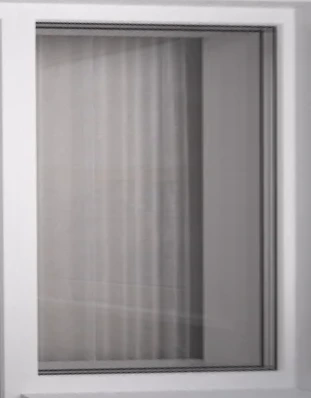
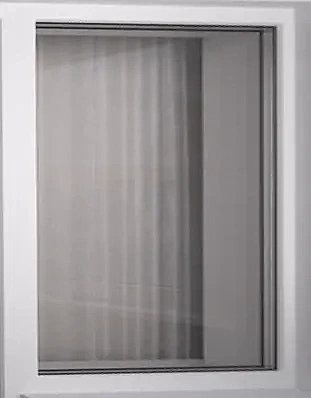
feat(render): sharpen output and add glass/frame gloss for a more photographic look
Owner feedback: the merged single-page view should look as lifelike as the
former photo-mode tab, not like a flat CG render. Three concrete, broadly-
applicable changes (not a per-shape patch):

- raster.ts resolve(): a cheap unsharp mask (cross-kernel blur subtracted
  back in) on the final output, at output resolution not supersampled —
  counters the softness a box-filtered SSAA render has compared to a real
  photo's apparent micro-contrast. Runs once per frame, ~640k px for an
  800x800 view, no measurable perf cost.
- raster.ts envSample(): window glass now gets a radial grazing-angle sheen
  term (real glass reflects more steeply near a pane's edges/corners) on
  top of the existing top-biased sky brightening, instead of a flat
  vertical-only gradient.
- renderer.ts: window/door frames now carry gloss: 0.4 (reusing the sheen
  term floor/sill already had) — PVC profile is a glossy plastic, not a
  matte-painted flat colour, so it should catch a highlight streak the way
  real frames in the photo-mode screens do.
- win-house.webp / win-frame.webp (the APK-sourced window crop used as a
  9-slice unit texture): mild unsharp-mask sharpening at the source. The
  crop is small (311x398, the most the app's own 800x800 screens ever had
  for this region — there is no higher-res source to pull from) and gets
  upscaled onto larger geometrically-correct window openings, so sharpening
  the source once partially offsets the upscale softness.
[…]

diff --git a/src/pages/Configurator/render/raster.ts b/src/pages/Configurator/render/raster.ts
@@ -448,8 +448,14 @@ function envSample(s: Shade, bs: Basis, px: number, py: number, rgb: Float32Arra
     g = 0.65 + 0.19 * k;
     b = 0.7 + 0.2 * k;
   }
-  // Glass: a little darker, faintly cool, with a soft sheen growing towards the top.
-  const sheen = 0.04 + 0.05 * Math.max(0, Math.min(1, (bs.cy - py) / bs.cy));
+  // Glass: a little darker, faintly cool, with a soft sheen — a mild top bias (the sky is
+  // brighter than the street) plus a radial grazing-angle term (real glass reflects more
+  // steeply near the pane's edges/corners than dead centre — a believable fresnel glint,
+  // not just a flat gradient).
+  const nx = (px - bs.cx) / bs.cx;
+  const ny = (bs.cy - py) / bs.cy;
+  const grazing = Math.min(1, Math.hypot(nx, ny));
+  const sheen = 0.03 + 0.04 * Math.max(0, ny) + 0.07 * grazing * grazing * grazing;
   rgb[o] = r * 0.9 + sheen;
   rgb[o + 1] = g * 0.91 + sheen;
   rgb[o + 2] = b * 0.93 + sheen * 1.05;
@@ -497,5 +503,27 @@ export function resolve(t: Target, ss: number): { rgba: Uint8ClampedArray<ArrayB
       ids[y * w + x] = t.ids[(y * ss + half) * t.w + x * ss + half]!;
     }
   }
+  sharpen(rgba, w, h);
   return { rgba, ids, w, h };
+}
+
+/** A cheap unsharp mask on the final picture (cross-kernel blur, subtracted back in): the
+ * app's own pre-rendered photos read as crisper than a raw SSAA-filtered render of the same
+ * scene, because a camera photo has real micro-contrast a renderer's box filter softens
+ * away. Runs once per frame at output resolution (not supersampled), so it's cheap. */
+function sharpen(rgba: Uint8ClampedArray, w: number, h: number): void {
+  if (w < 3 || h < 3) return;
+  const src = rgba.slice();
+  const AMOUNT = 0.35;
+  for (let y = 1; y < h - 1; y += 1) {
+    const row = y * w;
+    for (let x = 1; x < w - 1; x += 1) {
+      const o = (row + x) * 4;
+      for (let c = 0; c < 3; c += 1) {
+        const center = src[o + c]!;
+        const blur = (src[o - 4 + c]! + src[o + 4 + c]! + src[o - w * 4 + c]! + src[o + w * 4 + c]! + center * 4) / 8;
+        rgba[o + c] = center + AMOUNT * (center - blur);
+      }
+    }
+  }
 }

diff --git a/src/pages/Configurator/render/renderer.ts b/src/pages/Configurator/render/renderer.ts
@@ -156,7 +156,8 @@ export class RoomRenderer {
         return { ...base, mode: Mode.Flat, r: c[0], g: c[1], b: c[2], gloss };
       }
       case 'frame':
-        return { ...base, mode: Mode.Flat, r: frame[0]! * f.tint, g: frame[1]! * f.tint, b: frame[2]! * f.tint };
+        // PVC profile: a mild plastic gloss, same grazing-angle sheen as the floor/sill.
+        return { ...base, mode: Mode.Flat, r: frame[0]! * f.tint, g: frame[1]! * f.tint, b: frame[2]! * f.tint, gloss: 0.4 };
       case 'glass':
         return { ...base, mode: Mode.Glass, r: 1, g: 1, b: 1, env };
       case 'curtain':
